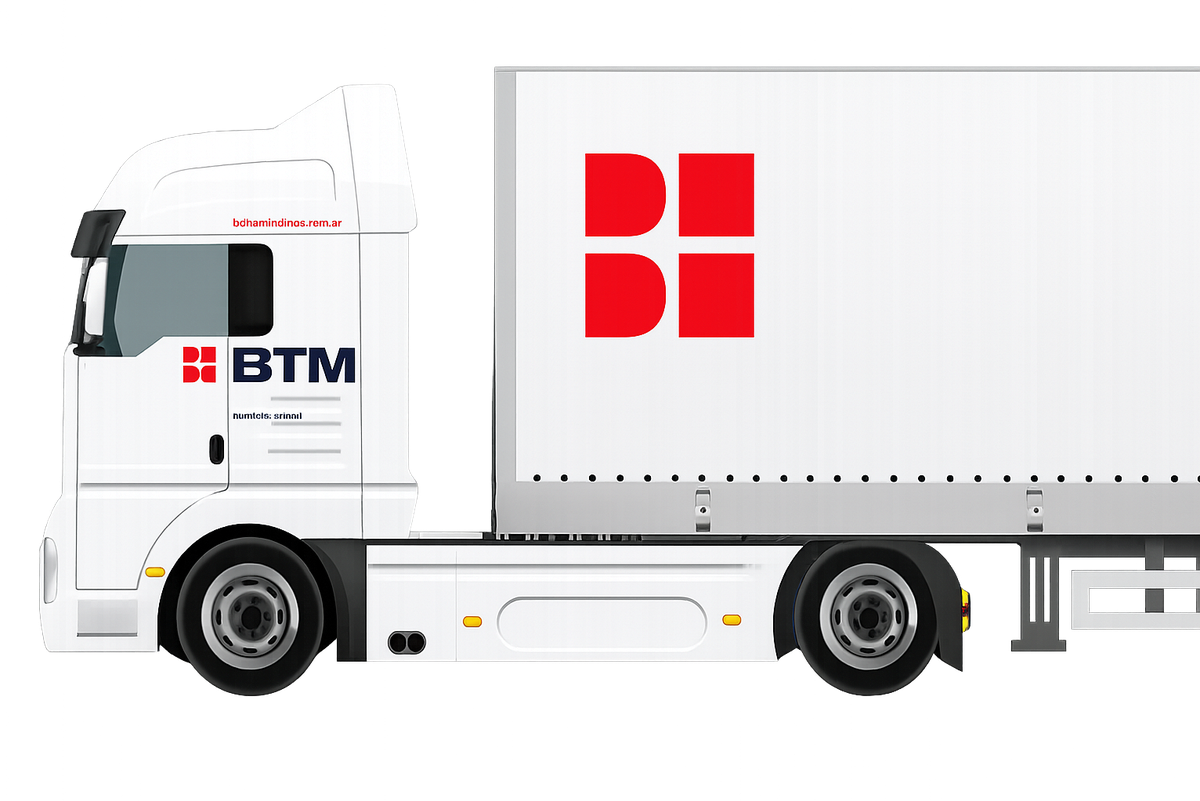
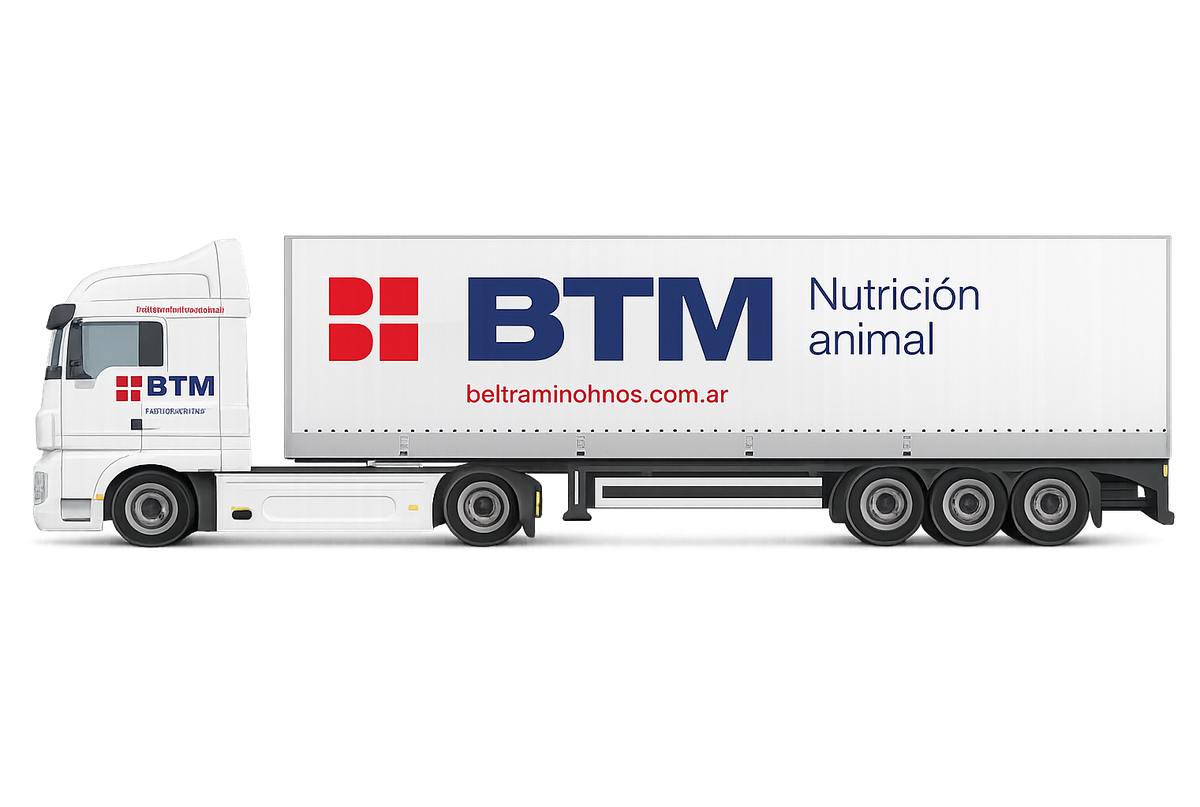
Update truck hero image (full trailer now visible)
Claude-Session: https://claude.ai/code/session_01TeVtHEkvfKEu5ZCcK9f2LP

Changed region(s): [[0.0308, 0.0624, 1.0, 0.8739], [0.6783, 0.3433, 0.8325, 0.437], [0.37, 0.7491, 0.4317, 0.7803]]

diff --git a/src/app/page.tsx b/src/app/page.tsx
@@ -25,7 +25,7 @@ export default async function HomePage({
             src="/brand/truck-hero.png"
             alt="Camión BTM Nutrición Animal"
             width={1200}
-            height={801}
+            height={807}
             className="h-auto w-full"
           />
         </div>
